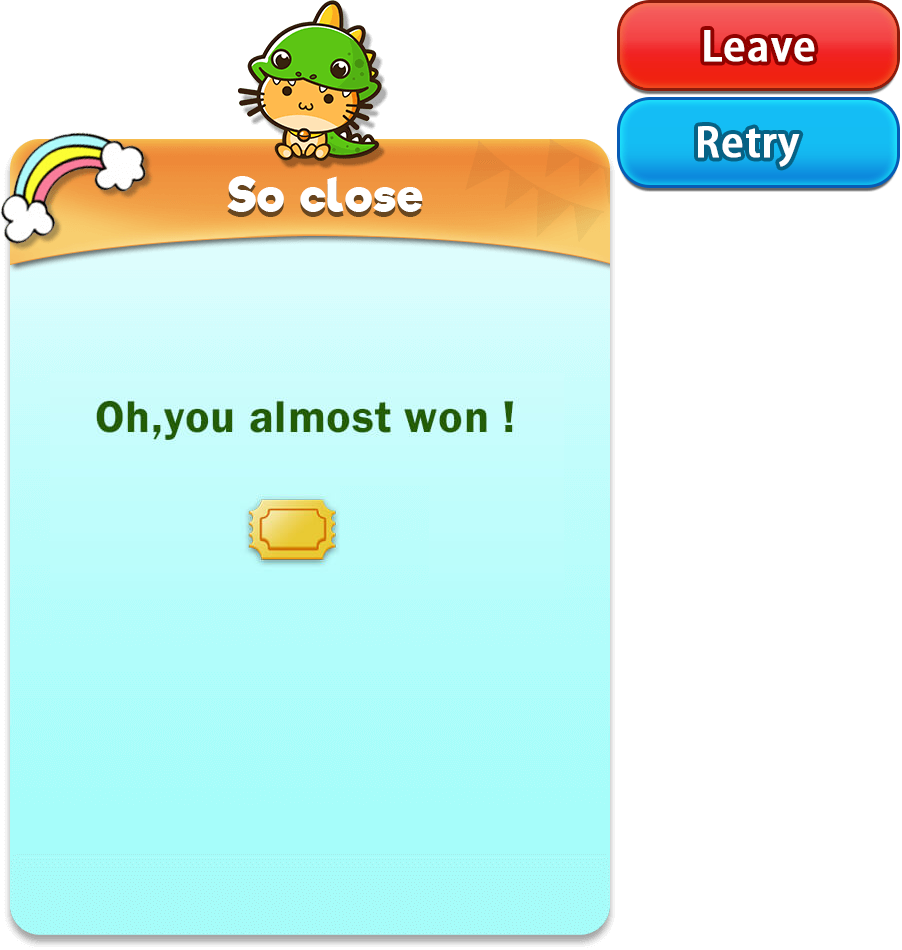
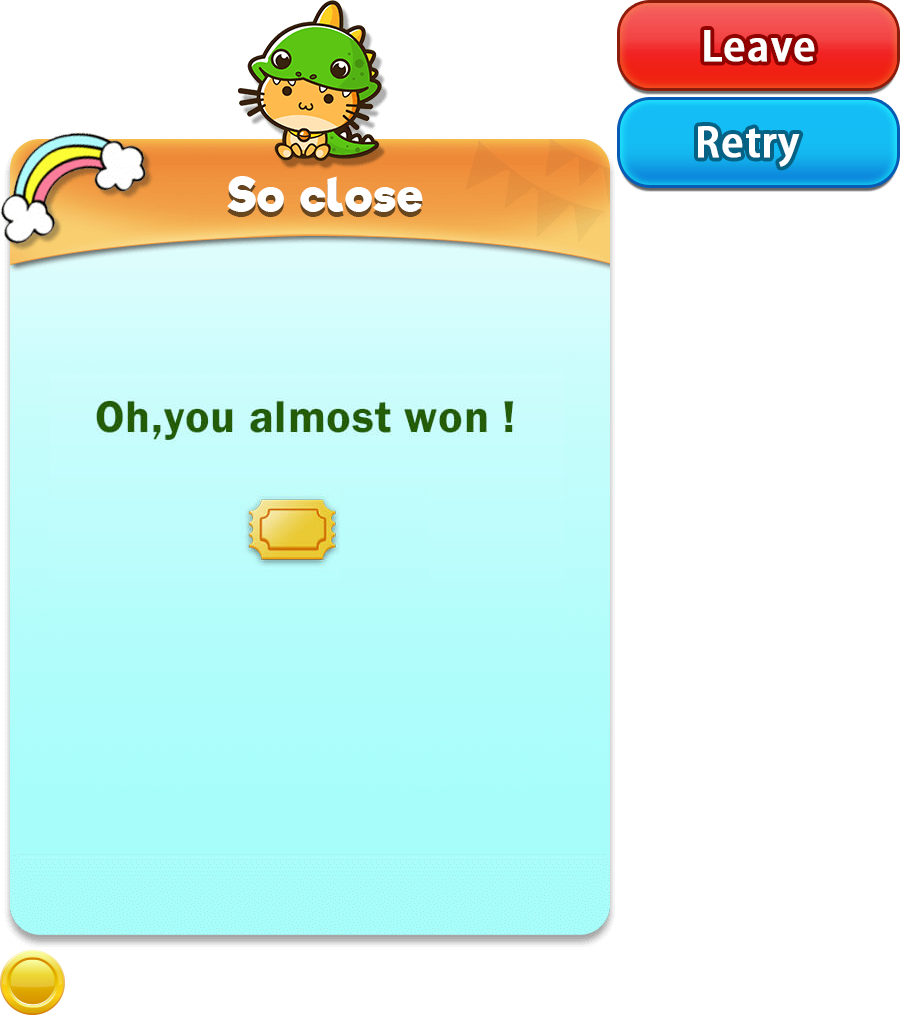
add price

diff --git a/src/popups/result-failed/result-failed.component.ts b/src/popups/result-failed/result-failed.component.ts
@@ -4,7 +4,7 @@
  * @Author: Wayne Yu
  * @Date: 2021-10-26 13:04:43
  * @LastEditors: Wayne Yu
- * @LastEditTime: 2021-10-26 15:24:11
+ * @LastEditTime: 2021-10-26 15:51:19
  */
 import { Component } from '@angular/core';
 import { HttpClient } from '@angular/common/http';
@@ -19,9 +19,12 @@ import { GenericModalComponent, Trigger, TextData } from '../../service/dinomao-
 export class ResultFailedComponent extends GenericModalComponent{
 
   okBtn!: BitmapData;
+  coinIcon!: BitmapData;
 
   scoreText!: TextData;
   score: number = 0;
+  priceText!: TextData;
+  price: number = 0;
   timeCountdownText!: TextData;
   timeCountdownNumber: number = 0;
 
@@ -37,14 +40,17 @@ export class ResultFailedComponent extends GenericModalComponent{
 
     this.okBtn = this.textureData.getTexture( "btn_retry", 29, 824 );
     this.closeBtn = this.textureData.getTexture( "btn_leave", 321, 824 );
+    this.coinIcon = this.textureData.getTexture( "coin", 229, 836 );
 
     this.scoreText = this.textureJson.score;
     this.timeCountdownText = this.textureJson.time;
+    this.priceText = this.textureJson.price;
 
     let products: any = Trigger.popupData.products;
     let product: any = products[0];
     this.score = product.score;
     this.startTime = product.time;
+    this.price = product.price;
 
     this.intervalId = setInterval( this.countdown.bind(this), 990 );
     this.countdown();

diff --git a/src/popups/result-failed/result-failed.component.html b/src/popups/result-failed/result-failed.component.html
@@ -4,13 +4,17 @@
  * @Author: Wayne Yu
  * @Date: 2021-10-26 13:04:43
  * @LastEditors: Wayne Yu
- * @LastEditTime: 2021-10-26 15:02:44
+ * @LastEditTime: 2021-10-26 15:48:37
 -->
 <div [style.marginLeft]="-this.marginLeft+'px'" [style.marginTop]="-this.marginTop+'px'">
   <img [src]="textureDetactive" (load)="bgTextureLoaded()" [hidden]="true"/>
   <app-image [imgData]="popupBg"></app-image>
   <app-image-button [imgData]="closeBtn" (itemClick)="closePo()"></app-image-button>
   <app-image-button [imgData]="okBtn" (itemClick)="retry()"></app-image-button>
+  <div class="noneSelect" *ngIf="price>0">
+    <app-image [imgData]="coinIcon"></app-image>
+    <app-popup-text-field [textData]="priceText" [text]="price+''"></app-popup-text-field>
+  </div>
   <app-popup-text-field [textData]="scoreText" [text]="'+'+score"></app-popup-text-field>
   <app-popup-text-field [textData]="timeCountdownText" [text]="''+timeCountdownNumber"></app-popup-text-field>
 </div>

diff --git a/src/service/gameUILogic/InnerContent.ts b/src/service/gameUILogic/InnerContent.ts
@@ -8,7 +8,7 @@ import { PopupVoType } from '../gameData/popup-vo-type';
  * @Author: Wayne Yu
  * @Date: 2021-08-25 15:05:52
  * @LastEditors: Wayne Yu
- * @LastEditTime: 2021-10-26 15:00:07
+ * @LastEditTime: 2021-10-26 15:38:57
  */
 export class InnerContent {
     static get welcomeBonus(): PopupVo{
@@ -39,7 +39,7 @@ export class InnerContent {
         return { type: PopupVoType.PURCHASE_SUCCESS, art: "assets/purchase_success/purchase_success.json", products: [{coins: coins}] };
     }
 
-    static resultFailed( score: number ){
-        return { type: PopupVoType.RESULT_FAILED, art: "assets/result/result_failed.json", products: [{score: score, time: Application.getTimer()}] };
+    static resultFailed( score: number, price: number ){
+        return { type: PopupVoType.RESULT_FAILED, art: "assets/result/result_failed.json", products: [{score, time: Application.getTimer(), price}] };
     }
 }

diff --git a/src/service/gameUILogic/GamePopupManager.ts b/src/service/gameUILogic/GamePopupManager.ts
@@ -4,7 +4,7 @@
 * @Author: Wayne Yu
 * @Date: 2021-09-16 16:29:58
  * @LastEditors: Wayne Yu
- * @LastEditTime: 2021-10-26 12:54:13
+ * @LastEditTime: 2021-10-26 15:36:46
 */
 import { InnerContent } from './InnerContent';
 import { GoodsData } from '../gameData/goods-data';
@@ -67,8 +67,8 @@ export class GamePopupManager {
         this.tryToshowFirstWaitingModal();
     }
 
-    public showResultFailed( score: number ){
-        this.waitingModals.unshift( InnerContent.resultFailed( score ) );
+    public showResultFailed( score: number, price: number ){
+        this.waitingModals.unshift( InnerContent.resultFailed( score, price ) );
         this.tryToshowFirstWaitingModal();
     }
 

diff --git a/src/pages/video/video/video.component.ts b/src/pages/video/video/video.component.ts
@@ -202,7 +202,7 @@ export class VideoComponent extends MainPage {
 
     }
     else{
-      Trigger.popupManager.showProductInfo( data.score );
+      Trigger.popupManager.showResultFailed( data.score, this.data.isFree == "1" && User.instance.isFree ? 0 : this.data.price );
     }
     if( data.score ) User.instance.score += data.score;
   }
